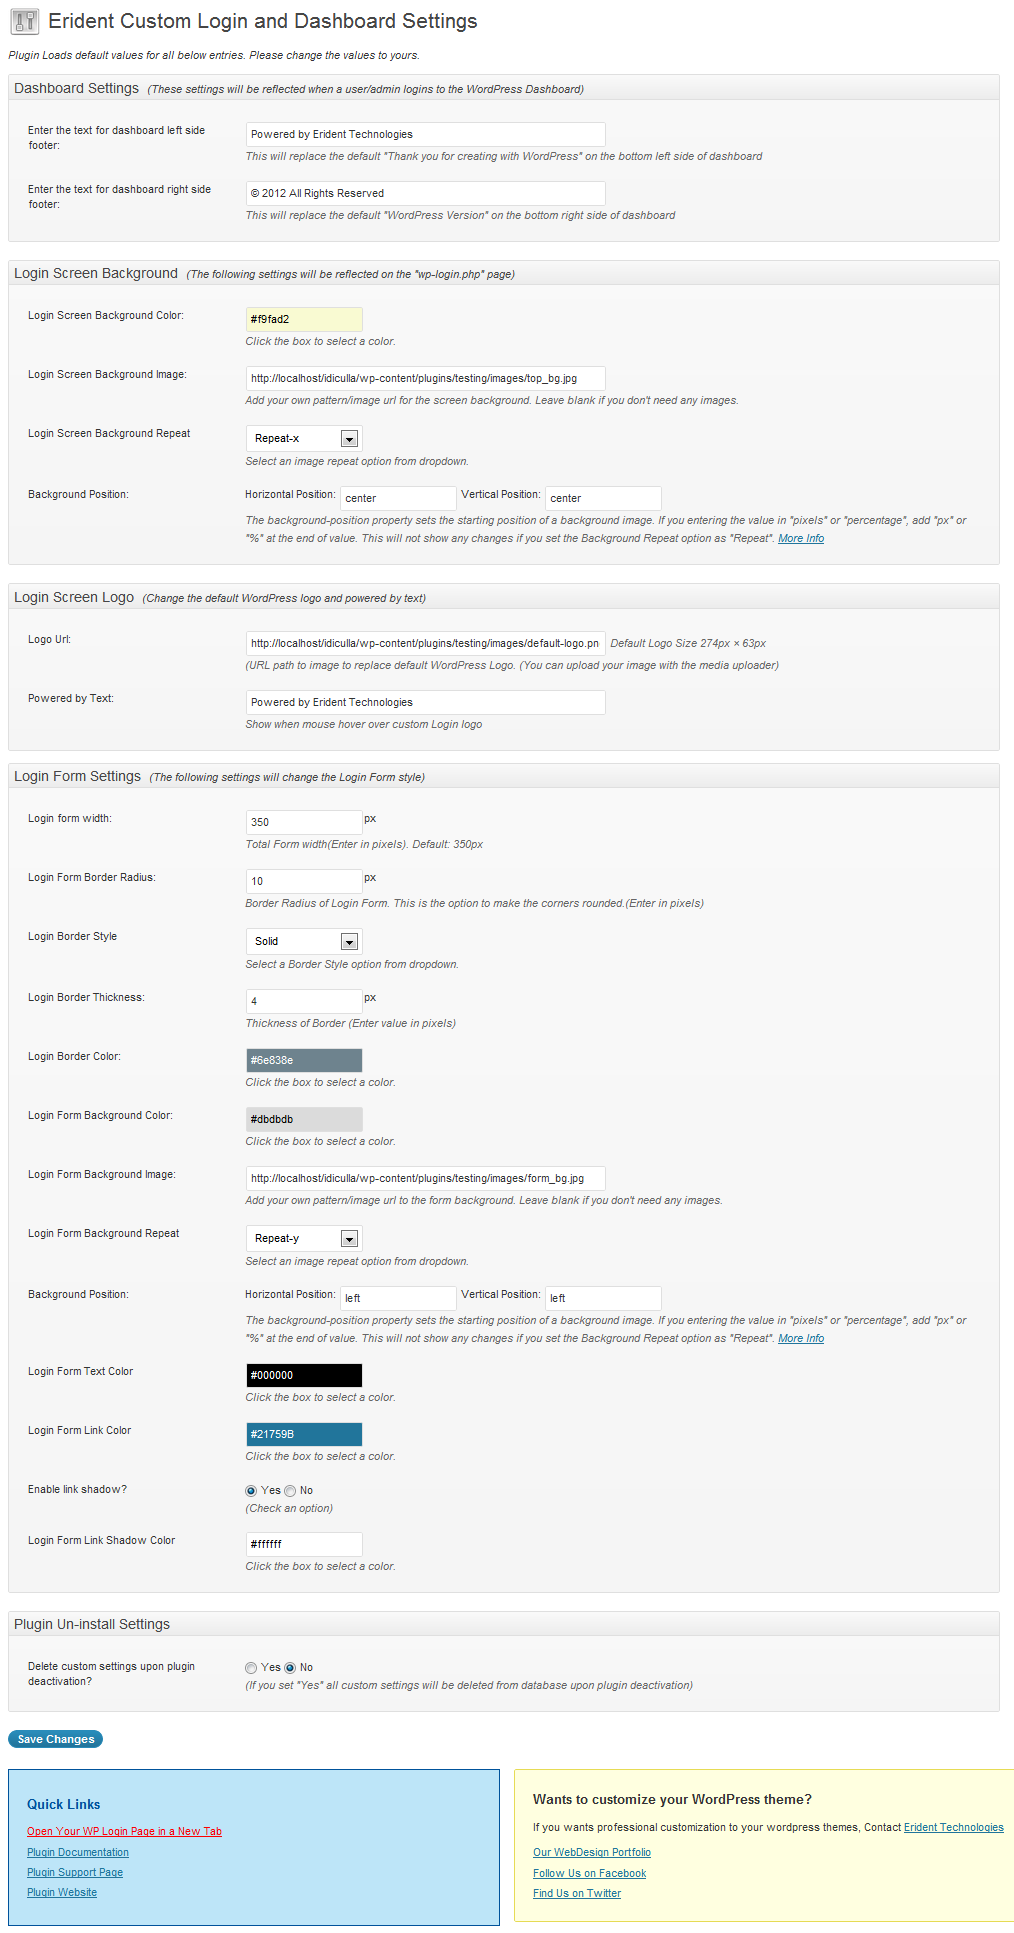
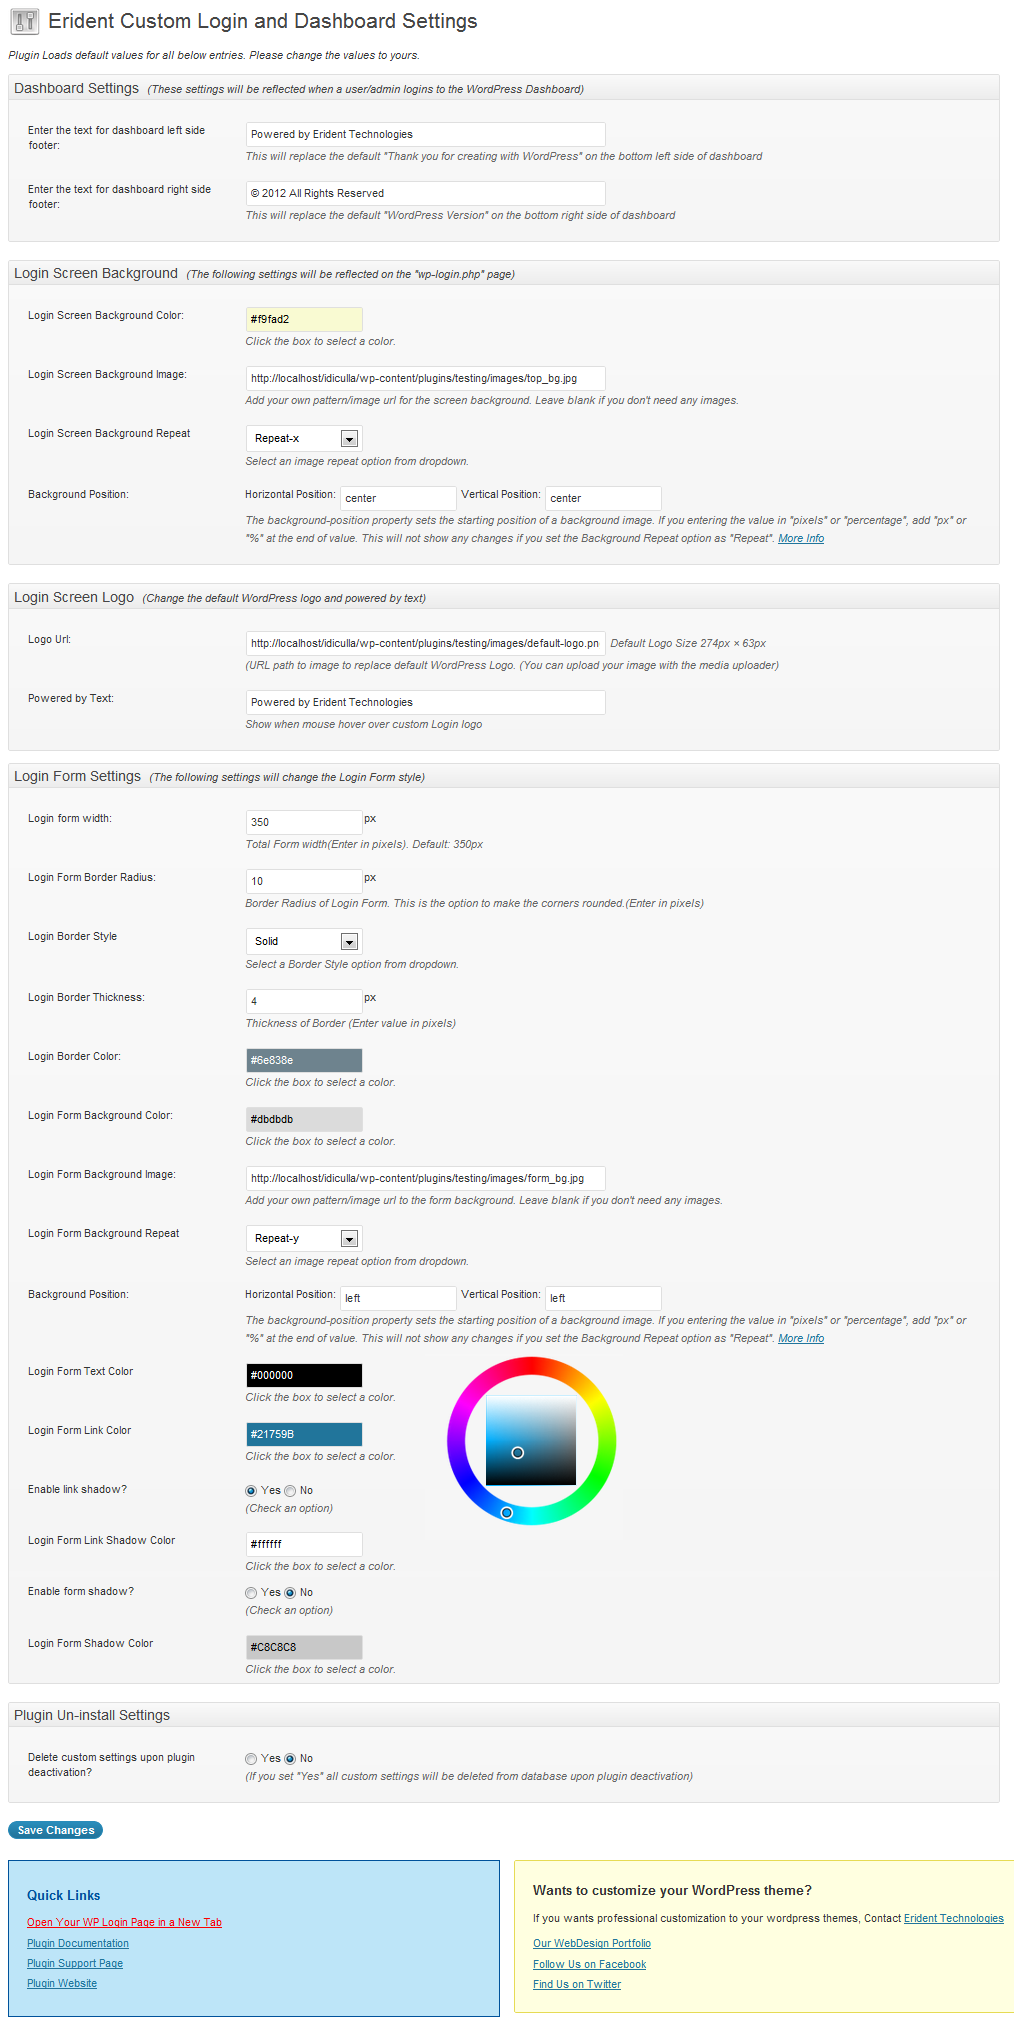
git-svn-id: https://plugins.svn.wordpress.org/erident-custom-login-and-dashboard/trunk@596871 b8457f37-d9ea-0310-8a92-e5e31aec5664

Changed region(s): [[0.0, 0.0, 1.0, 1.0], [0.6114, 0.5898, 0.7032, 0.6208], [0.856, 0.6518, 0.8866, 0.6829]]

diff --git a/er-admin.css b/er-admin.css
@@ -22,7 +22,7 @@
 .wp-erident-dashboard table {
 
 }
-#ilctabscolorpicker, #ilctabscolorpicker2, #ilctabscolorpicker3, #ilctabscolorpicker4, #ilctabscolorpicker5, #ilctabscolorpicker6 {
+#ilctabscolorpicker, #ilctabscolorpicker2, #ilctabscolorpicker3, #ilctabscolorpicker4, #ilctabscolorpicker5, #ilctabscolorpicker6, #ilctabscolorpicker7 {
 	margin-left:210px;
 	position:absolute;
 }
@@ -43,6 +43,9 @@
 }
 #ilctabscolorpicker6 {
 	margin-top:-160px;
+}
+#ilctabscolorpicker7 {
+	margin-top:-170px;
 }
 .er_notice {
 	padding: 10px 20px;

diff --git a/er-custom-login.php b/er-custom-login.php
@@ -3,7 +3,7 @@
 Plugin Name: Erident Custom Login and Dashboard
 Plugin URI: http://www.eridenttech.com/wp-plugins/erident-custom-login-and-dashboard
 Description: Customize completly your WordPress Login Screen and Dashboard. Add your company logo to login screen, change background colors, styles etc. Customize your Dashboard footer text also for complete branding.
-Version: 1.2
+Version: 1.3
 Author: Erident Technologies
 Author URI: http://www.eridenttech.com/
 License: GPL
@@ -73,12 +73,20 @@ function er_login_logo() {
  $er_login_text_color = get_option('wp_erident_dashboard_text_color');
  $er_login_link_color = get_option('wp_erident_dashboard_link_color');
  
+ 
  $check_shadow = get_option('wp_erident_dashboard_check_shadow');
 	if($check_shadow == Yes) { 
  		$er_login_link_shadow = get_option('wp_erident_dashboard_link_shadow').' 0 1px 0';
 	}
 	else {
 		$er_login_link_shadow = "none";
+	}
+  $check_fshadow = get_option('wp_erident_dashboard_check_form_shadow');
+	if($check_fshadow == Yes) { 
+ 		$er_login_form_shadow = '0 4px 10px -1px '.get_option('wp_erident_dashboard_form_shadow');
+	}
+	else {
+		$er_login_form_shadow = "none";
 	}
  
  $er_top_bg_color = get_option('wp_erident_top_bg_color');
@@ -108,6 +116,9 @@ function er_login_logo() {
 			border-radius:<?php echo $er_login_radius ?>px;
 			border:<?php echo $er_login_border_thick ?>px <?php echo $er_login_border ?> <?php echo $er_login_border_color ?>;
 			background:<?php echo $er_login_bg ?> url(<?php echo $er_login_bg_image ?>) <?php echo $er_login_bg_repeat ?> <?php echo $er_login_bg_xpos ?> <?php echo $er_login_bg_ypos ?>;
+			-moz-box-shadow:    <?php echo $er_login_form_shadow ?>;
+			-webkit-box-shadow: <?php echo $er_login_form_shadow ?>;
+			box-shadow:         <?php echo $er_login_form_shadow ?>;
 		}
 		body.login div#login form p label {
 			color:<?php echo $er_login_text_color ?>;
@@ -158,6 +169,8 @@ add_option("wp_erident_dashboard_text_color", '#000000', '', 'yes');
 add_option("wp_erident_dashboard_link_color", '#21759B', '', 'yes');
 add_option("wp_erident_dashboard_check_shadow", 'Yes', '', 'yes');
 add_option("wp_erident_dashboard_link_shadow", '#ffffff', '', 'yes');
+add_option("wp_erident_dashboard_check_form_shadow", 'Yes', '', 'yes');
+add_option("wp_erident_dashboard_form_shadow", '#C8C8C8', '', 'yes');
 
 add_option("wp_erident_top_bg_color", '#f9fad2', '', 'yes');
 add_option("wp_erident_top_bg_image", plugins_url('images/top_bg.jpg', __FILE__), '', 'yes');
@@ -191,6 +204,8 @@ delete_option('wp_erident_dashboard_text_color');
 delete_option('wp_erident_dashboard_link_color');
 delete_option('wp_erident_dashboard_check_shadow');
 delete_option('wp_erident_dashboard_link_shadow');
+delete_option('wp_erident_dashboard_check_form_shadow');
+delete_option('wp_erident_dashboard_form_shadow');
 
 delete_option('wp_erident_top_bg_color');
 delete_option('wp_erident_top_bg_image');
@@ -259,7 +274,7 @@ function wp_erident_dashboard_html_page() {
     <th scope="row">Enter the text for dashboard left side footer:</th>
     <td>
     <input class="er-textfield" name="wp_erident_dashboard_data_left" type="text" id="wp_erident_dashboard_data_left"
-value="<?php echo get_option('wp_erident_dashboard_data_left'); ?>" placeholder="Text for dashboard left side footer" />
+value="<?php echo esc_html( get_option('wp_erident_dashboard_data_left') ); ?>" placeholder="Text for dashboard left side footer" />
 	<br />
     <span class="description">This will replace the default "Thank you for creating with WordPress" on the bottom left side of dashboard</span>
 	</td>
@@ -267,7 +282,7 @@ value="<?php echo get_option('wp_erident_dashboard_data_left'); ?>" placeholder=
   <tr valign="top">
     <th scope="row">Enter the text for dashboard right side footer:</th>
     <td><input class="er-textfield" name="wp_erident_dashboard_data_right" type="text" id="wp_erident_dashboard_data_right"
-value="<?php echo get_option('wp_erident_dashboard_data_right'); ?>" placeholder="Text for dashboard left right footer"  />
+value="<?php echo esc_html( get_option('wp_erident_dashboard_data_right') ); ?>" placeholder="Text for dashboard left right footer"  />
     <br />
     <span class="description">This will replace the default "WordPress Version" on the bottom right side of dashboard</span>
     </td>
@@ -328,6 +343,7 @@ value="<?php echo get_option('wp_erident_top_bg_image'); ?>" />
 				break;
 				
 				default:
+				$er_screen_a=$er_screen_b=$er_screen_c=$er_screen_d="";
 				break;
 				}
      ?>       
@@ -440,6 +456,7 @@ value="<?php echo get_option('wp_erident_dashboard_login_radius'); ?>" />px
 				break;
 				
 				default:
+				$er_a=$er_b=$er_c=$er_d=$er_e="";
 				break;
 				}
      ?>       
@@ -517,6 +534,7 @@ value="<?php echo get_option('wp_erident_login_bg_image'); ?>" />
 				break;
 				
 				default:
+				$er_login_a=$er_login_b=$er_login_c=$er_login_d="";
 				break;
 				}
      ?>       
@@ -567,7 +585,7 @@ value="<?php echo get_option('wp_erident_login_bg_ypos'); ?>" />
     <td>
     <?php 
 	$check_sh = get_option('wp_erident_dashboard_check_shadow');
-	if($check_sh == Yes) { $sx = "checked"; } else { $sy = "checked"; } ?>
+	if($check_sh == 'Yes') { $sx = "checked"; $sy = ''; } else { $sy = "checked"; $sx = ''; } ?>
 
       <label>
         <input type="radio" name="wp_erident_dashboard_check_shadow" value="Yes" id="wp_erident_dashboard_check_shadow_0" <?php echo $sx; ?>  onclick="$('#hide-this').show('normal')" />
@@ -590,6 +608,36 @@ value="<?php echo get_option('wp_erident_login_bg_ypos'); ?>" />
     </td>
   </tr>
   
+  <!-- Form Shadow -->
+  <tr valign="top">
+    <th scope="row">Enable form shadow?</th>
+    <td>
+    <?php 
+	$check_fsh = get_option('wp_erident_dashboard_check_form_shadow');
+	if($check_fsh == 'Yes') { $fsx = "checked"; $fsy = ''; } else { $fsy = "checked"; $fsx = ''; } ?>
+
+      <label>
+        <input type="radio" name="wp_erident_dashboard_check_form_shadow" value="Yes" id="wp_erident_dashboard_check_form_shadow_0" <?php echo $fsx; ?>  onclick="$('#hide-this2').show('normal')" />
+        Yes</label>
+
+      <label>
+        <input type="radio" name="wp_erident_dashboard_check_form_shadow" value="No" id="wp_erident_dashboard_check_form_shadow_1" <?php echo $fsy; ?> onclick="$('#hide-this2').hide('normal')" />
+        No</label>
+    <br />
+    <span class="description">(Check an option)</span>
+    </td>
+  </tr>
+  <tr valign="top" id="hide-this2">
+    <th scope="row">Login Form Shadow Color</th>
+    <td>
+    <input class="er-textfield-small" type="text" id="wp_erident_dashboard_form_shadow" name="wp_erident_dashboard_form_shadow" value="<?php echo get_option('wp_erident_dashboard_form_shadow'); ?>" />
+    <div id="ilctabscolorpicker7"></div>
+    <br />
+    <span class="description">Click the box to select a color.</span>
+    </td>
+  </tr>
+  <!-- end Form shadow -->
+  
 </table>
 </div><!-- end inside -->
 </div><!-- end postbox -->
@@ -605,7 +653,7 @@ value="<?php echo get_option('wp_erident_login_bg_ypos'); ?>" />
     <td>
     <?php 
 	$check = get_option('wp_erident_dashboard_delete_db');
-	if($check == Yes) { $x = "checked"; } else { $y = "checked"; } ?>
+	if($check == 'Yes') { $x = "checked"; $y = ''; } else { $y = "checked"; $x = ''; } ?>
 
       <label>
         <input type="radio" name="wp_erident_dashboard_delete_db" value="Yes" id="wp_erident_dashboard_delete_db_0" <?php echo $x; ?> />
@@ -624,7 +672,7 @@ value="<?php echo get_option('wp_erident_login_bg_ypos'); ?>" />
 
 
 <input type="hidden" name="action" value="update" />
-<input type="hidden" name="page_options" value="wp_erident_dashboard_data_left,wp_erident_dashboard_data_right,wp_erident_dashboard_image_logo,wp_erident_dashboard_power_text,wp_erident_dashboard_login_width,wp_erident_dashboard_login_radius,wp_erident_dashboard_login_border,wp_erident_dashboard_border_thick,wp_erident_dashboard_border_color,wp_erident_dashboard_login_bg,wp_erident_dashboard_text_color,wp_erident_dashboard_delete_db,wp_erident_top_bg_color,wp_erident_top_bg_image,wp_erident_top_bg_repeat,wp_erident_login_bg_image,wp_erident_login_bg_repeat,wp_erident_dashboard_link_color,wp_erident_dashboard_link_shadow,wp_erident_dashboard_check_shadow,wp_erident_top_bg_xpos,wp_erident_top_bg_ypos,wp_erident_login_bg_xpos,wp_erident_login_bg_xpos" />
+<input type="hidden" name="page_options" value="wp_erident_dashboard_data_left,wp_erident_dashboard_data_right,wp_erident_dashboard_image_logo,wp_erident_dashboard_power_text,wp_erident_dashboard_login_width,wp_erident_dashboard_login_radius,wp_erident_dashboard_login_border,wp_erident_dashboard_border_thick,wp_erident_dashboard_border_color,wp_erident_dashboard_login_bg,wp_erident_dashboard_text_color,wp_erident_dashboard_delete_db,wp_erident_top_bg_color,wp_erident_top_bg_image,wp_erident_top_bg_repeat,wp_erident_login_bg_image,wp_erident_login_bg_repeat,wp_erident_dashboard_link_color,wp_erident_dashboard_link_shadow,wp_erident_dashboard_check_shadow,wp_erident_dashboard_form_shadow,wp_erident_dashboard_check_form_shadow,wp_erident_top_bg_xpos,wp_erident_top_bg_ypos,wp_erident_login_bg_xpos,wp_erident_login_bg_xpos" />
 
 <p>
 <input type="submit" class="button-primary" value="<?php _e('Save Changes') ?>" />
@@ -684,6 +732,11 @@ value="<?php echo get_option('wp_erident_login_bg_ypos'); ?>" />
 	jQuery('#ilctabscolorpicker6').farbtastic("#wp_erident_dashboard_link_shadow");
     jQuery("#wp_erident_dashboard_link_shadow").click(function(){jQuery('#ilctabscolorpicker6').slideDown()});
 	jQuery("#wp_erident_dashboard_link_shadow").blur(function(){jQuery('#ilctabscolorpicker6').slideUp()});
+	
+	jQuery('#ilctabscolorpicker7').hide();
+	jQuery('#ilctabscolorpicker7').farbtastic("#wp_erident_dashboard_form_shadow");
+    jQuery("#wp_erident_dashboard_form_shadow").click(function(){jQuery('#ilctabscolorpicker7').slideDown()});
+	jQuery("#wp_erident_dashboard_form_shadow").blur(function(){jQuery('#ilctabscolorpicker7').slideUp()});
   });
  
 </script>
